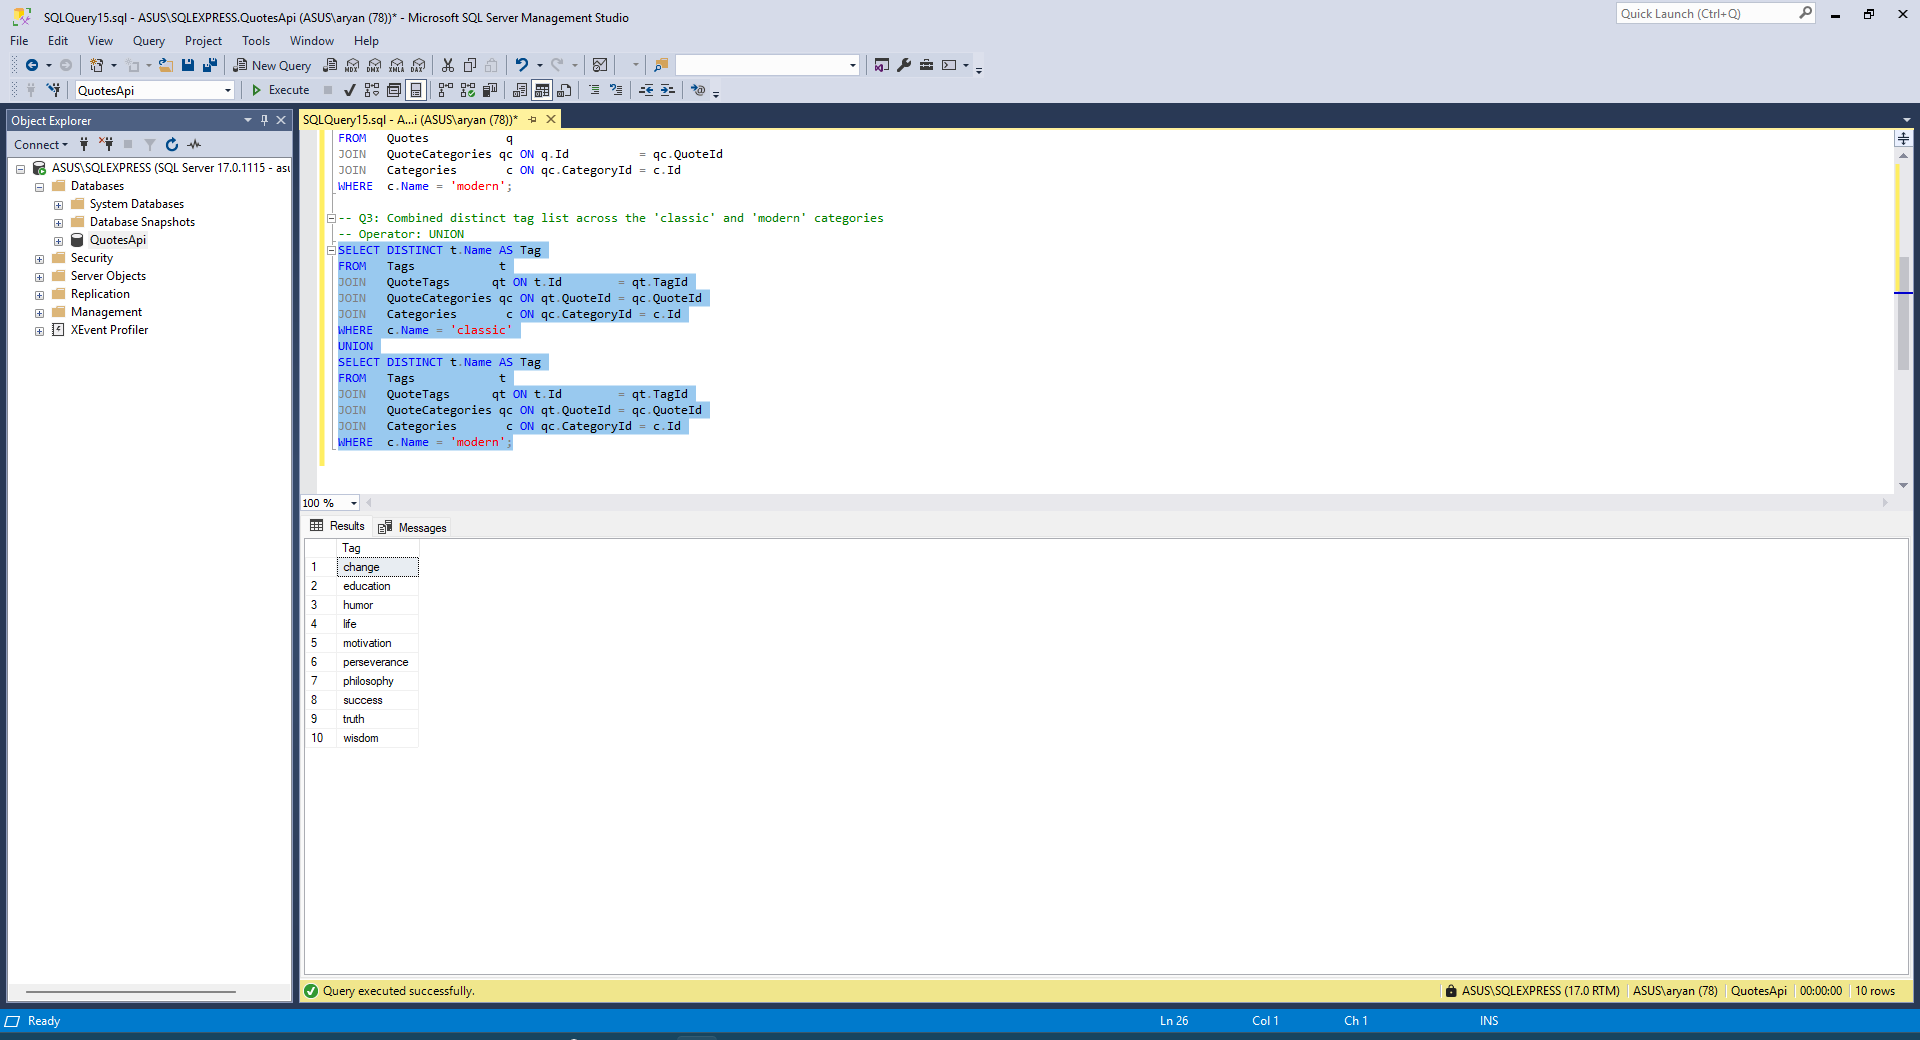
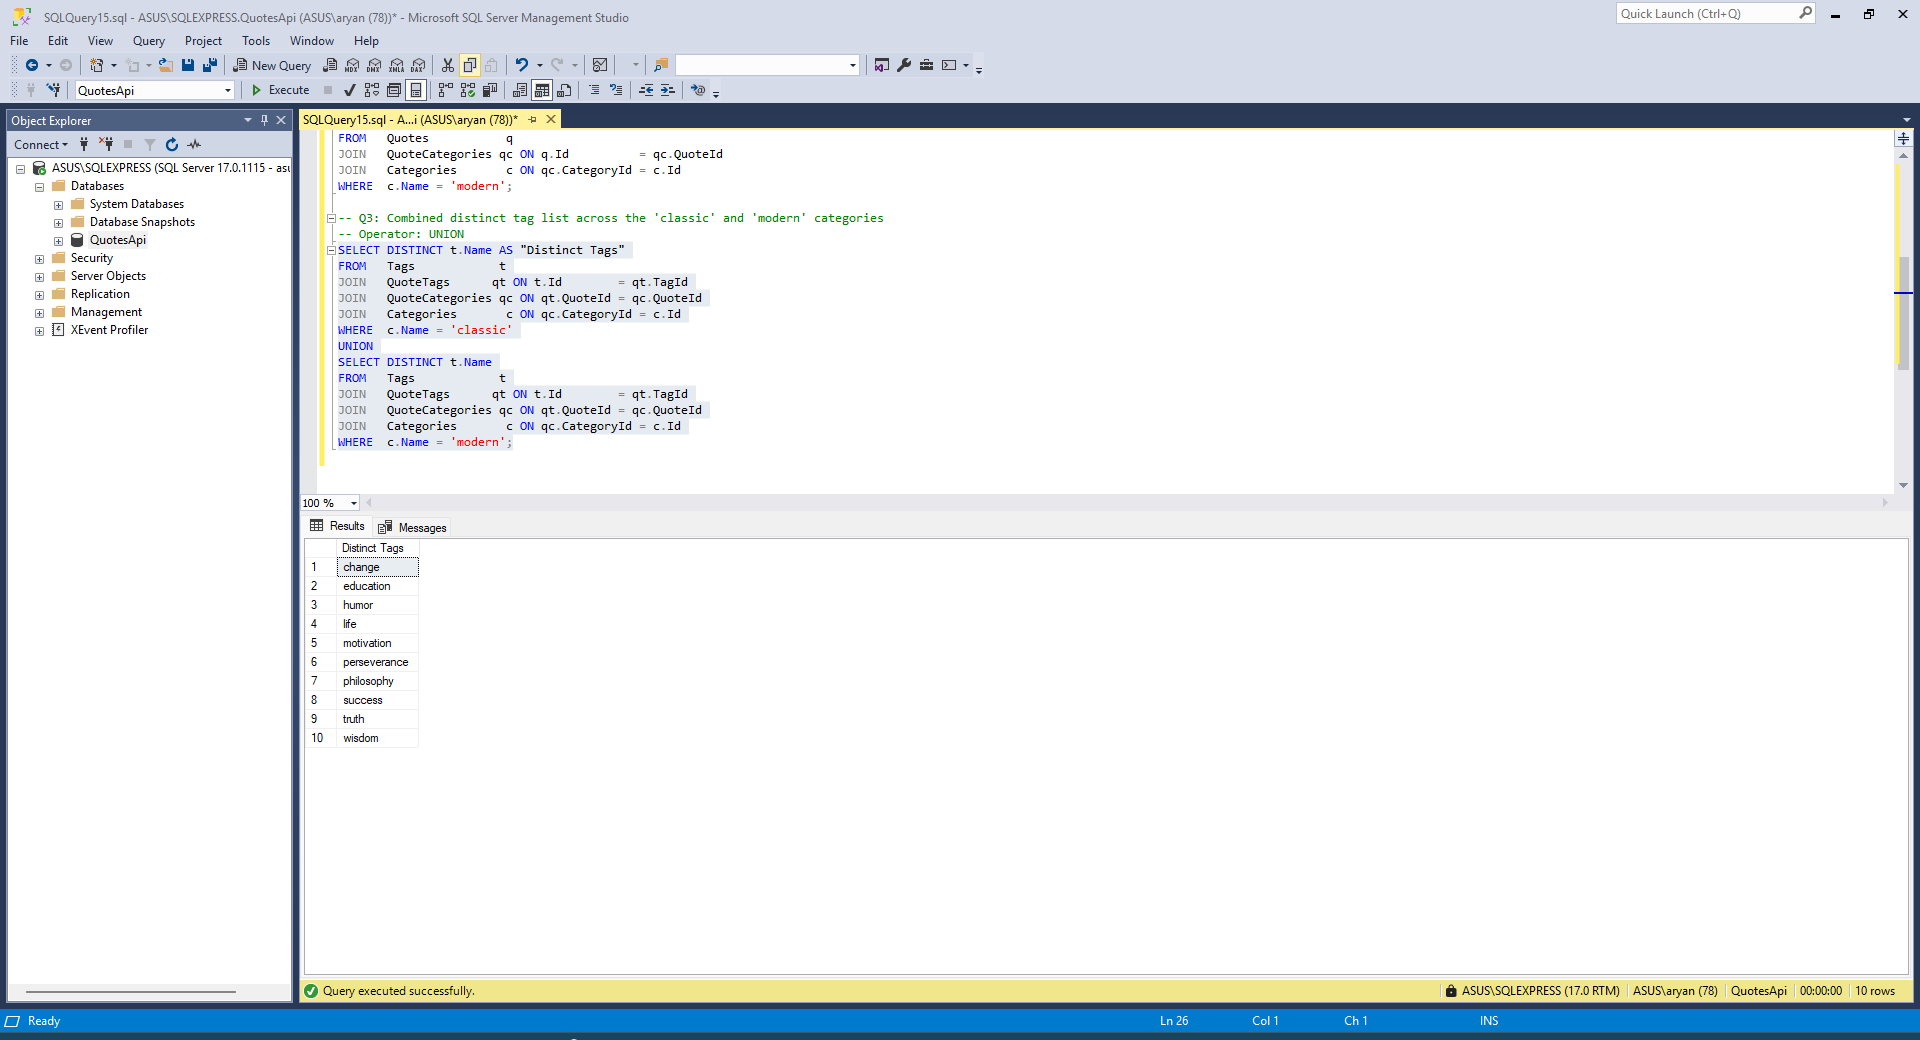
Day 7 Piece 3 Formatting Changes

Changed region(s): [[0.1562, 0.2154, 0.375, 0.4308], [0.0312, 0.0, 0.3125, 0.0308], [0.1875, 0.5231, 0.2188, 0.5538]]

diff --git a/Day7/Piece3/Solution.md b/Day7/Piece3/Solution.md
@@ -9,15 +9,19 @@ FROM   Quotes      q
 JOIN   QuoteTags  qt ON q.Id = qt.QuoteId;
 ```
 
-Operator: EXCEPT. Reason: The result is the set of all quote authors minus the set of authors who have at least one tagged quote. EXCEPT performs exactly that subtraction between two result sets. A LEFT JOIN with a NULL check produces the same rows but mixes filtering logic into what is structurally a set-difference operation.
+Operator: EXCEPT. 
+
+Reason: The result is the set of all quote authors minus the set of authors who have at least one tagged quote. EXCEPT performs exactly that subtraction between two result sets. A LEFT JOIN with a NULL check produces the same rows but mixes filtering logic into what is structurally a set-difference operation.
 
 Output:
-	Authors with no quotes with Tags
-1	Henry Ford
-2	Nelson Mandela
-3	Theodore Roosevelt
 
-![alt text](Query1Output.png)
+| Authors with no quotes with Tags |
+|---|
+| Henry Ford |
+| Nelson Mandela |
+| Theodore Roosevelt |
+
+![Output Screenshot](Query1Output.png)
 
 ---
 
@@ -37,17 +41,20 @@ JOIN   Categories       c ON qc.CategoryId = c.Id
 WHERE  c.Name = 'modern';
 ```
 
-Operator: INTERSECT. Reason: INTERSECT returns only rows that appear in both result sets, which directly matches the condition of an author having quotes in both categories. A self-join or EXISTS subquery can produce the same output but encodes set membership as a filter rather than as a set operation. INTERSECT keeps both sides structurally parallel and is the natural operator for set intersection.
+Operator: INTERSECT. 
 
-![alt text](Query2Output.png)
+Reason: INTERSECT returns only rows that appear in both result sets, which directly matches the condition of an author having quotes in both categories. A self-join or EXISTS subquery can produce the same output but encodes set membership as a filter rather than as a set operation. INTERSECT keeps both sides structurally parallel and is the natural operator for set intersection.
 
 Output:
-	Authors with both Classic and Modern quotes.
-1	Benjamin Franklin
-2	Friedrich Nietzsche
-3	Mark Twain
-4	Oscar Wilde
 
+| Authors with both Classic and Modern quotes. |
+|---|
+| Benjamin Franklin |
+| Friedrich Nietzsche |
+| Mark Twain |
+| Oscar Wilde |
+
+![Output Screenshot](Query2Output.png)
 ---
 
 ## Query 3 — Combined distinct tag list across 'classic' and 'modern'
@@ -69,19 +76,23 @@ WHERE  c.Name = 'modern';
 
 ```
 
-Operator: UNION. Reason: UNION merges two result sets and removes duplicate rows, so tags shared between classic and modern quotes appear exactly once in the output. UNION ALL is not suitable here because it preserves duplicates, inflating the list beyond the distinct set of tags. UNION is the correct operator when the goal is a combined, deduplicated collection from multiple sets.
+Operator: UNION. 
+
+Reason: UNION merges two result sets and removes duplicate rows, so tags shared between classic and modern quotes appear exactly once in the output. UNION ALL is not suitable here because it preserves duplicates, inflating the list beyond the distinct set of tags. UNION is the correct operator when the goal is a combined, deduplicated collection from multiple sets.
 
 Output:
-	Distinct Tags
-1	change
-2	education
-3	humor
-4	life
-5	motivation
-6	perseverance
-7	philosophy
-8	success
-9	truth
-10	wisdom
 
-![alt text](Query3Output.png)
+| Distinct Tags |
+|---|
+| change |
+| education |
+| humor |
+| life |
+| motivation |
+| perseverance |
+| philosophy |
+| success |
+| truth |
+| wisdom |
+
+![Output Screenshot](Query3Output.png)